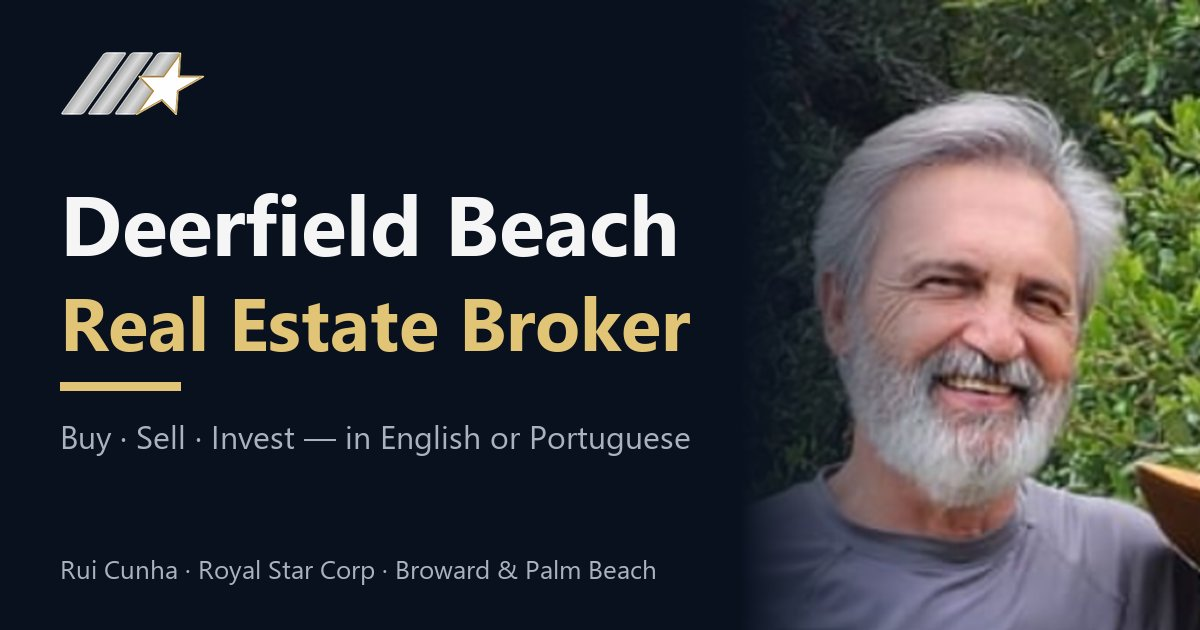
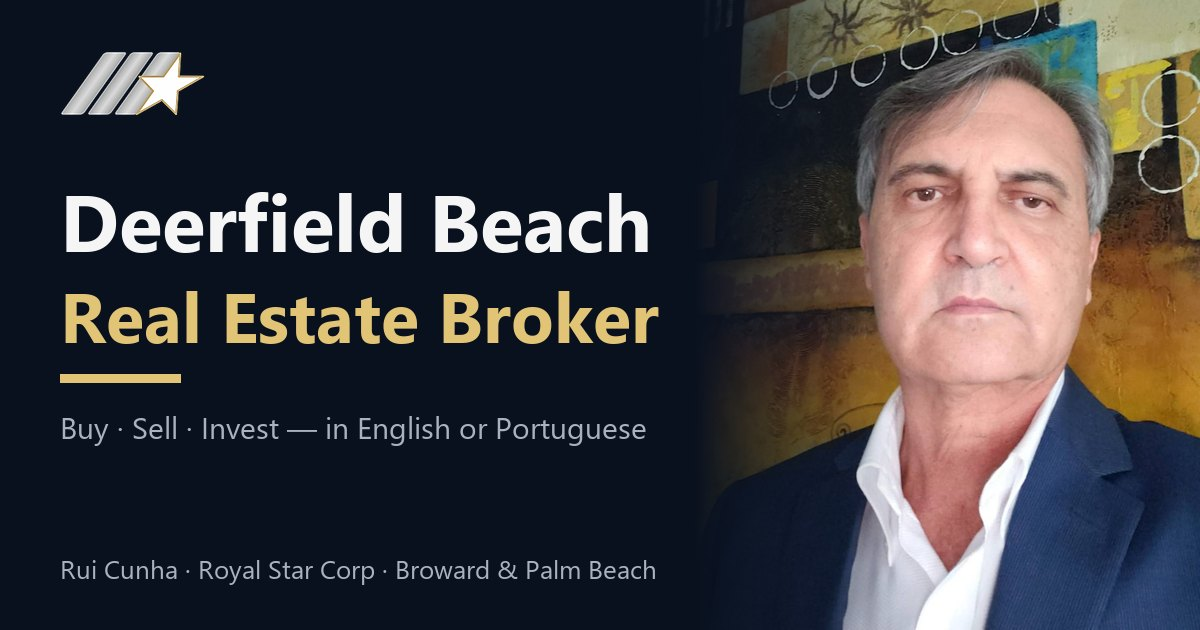
Deploy preview

diff --git a/pt/index.html b/pt/index.html
@@ -55,7 +55,7 @@
       <p><a class="btn btn-wa" href="https://wa.me/19548508640?text=Ol%C3%A1%20Rui%2C%20vi%20seu%20site%20e%20quero%20tirar%20uma%20d%C3%BAvida%20sobre%20im%C3%B3vel%20na%20Fl%C3%B3rida.%20%28pt-home%29" data-loc="hero"><svg aria-hidden="true"><use href="#wa-ico"/></svg>Falar com o Rui no WhatsApp</a></p>
       <p class="under-btn"><a href="tel:+19548508640">Ligar: +1 (954) 850-8640</a></p>
     </div>
-    <figure class="hero-photo"><img class="rui" src="../assets/rui.webp" width="250" height="250" alt="Rui Cunha, corretor de imóveis — Royal Star Corp"><figcaption>Rui Cunha · Broker · Royal Star Corp</figcaption></figure>
+    <figure class="hero-photo"><img class="rui" src="../assets/rui.webp" width="600" height="600" alt="Rui Cunha, corretor de imóveis — Royal Star Corp"><figcaption>Rui Cunha · Broker · Royal Star Corp</figcaption></figure>
   </div>
 </section>
 <section class="paths">

diff --git a/index.html b/index.html
@@ -55,7 +55,7 @@
       <p><a class="btn btn-wa" href="https://wa.me/19548508640?text=Hi%20Rui%2C%20I%20found%20your%20website%20and%20I%20have%20a%20question%20about%20buying/selling%20in%20Florida.%20%28en-home%29" data-loc="hero"><svg aria-hidden="true"><use href="#wa-ico"/></svg>Message Rui on WhatsApp</a></p>
       <p class="under-btn"><a href="tel:+19548508640">Call: +1 (954) 850-8640</a></p>
     </div>
-    <figure class="hero-photo"><img class="rui" src="assets/rui.webp" width="250" height="250" alt="Rui Cunha, Real Estate Broker — Royal Star Corp"><figcaption>Rui Cunha · Broker · Royal Star Corp</figcaption></figure>
+    <figure class="hero-photo"><img class="rui" src="assets/rui.webp" width="600" height="600" alt="Rui Cunha, Real Estate Broker — Royal Star Corp"><figcaption>Rui Cunha · Broker · Royal Star Corp</figcaption></figure>
   </div>
 </section>
 <section class="paths">
